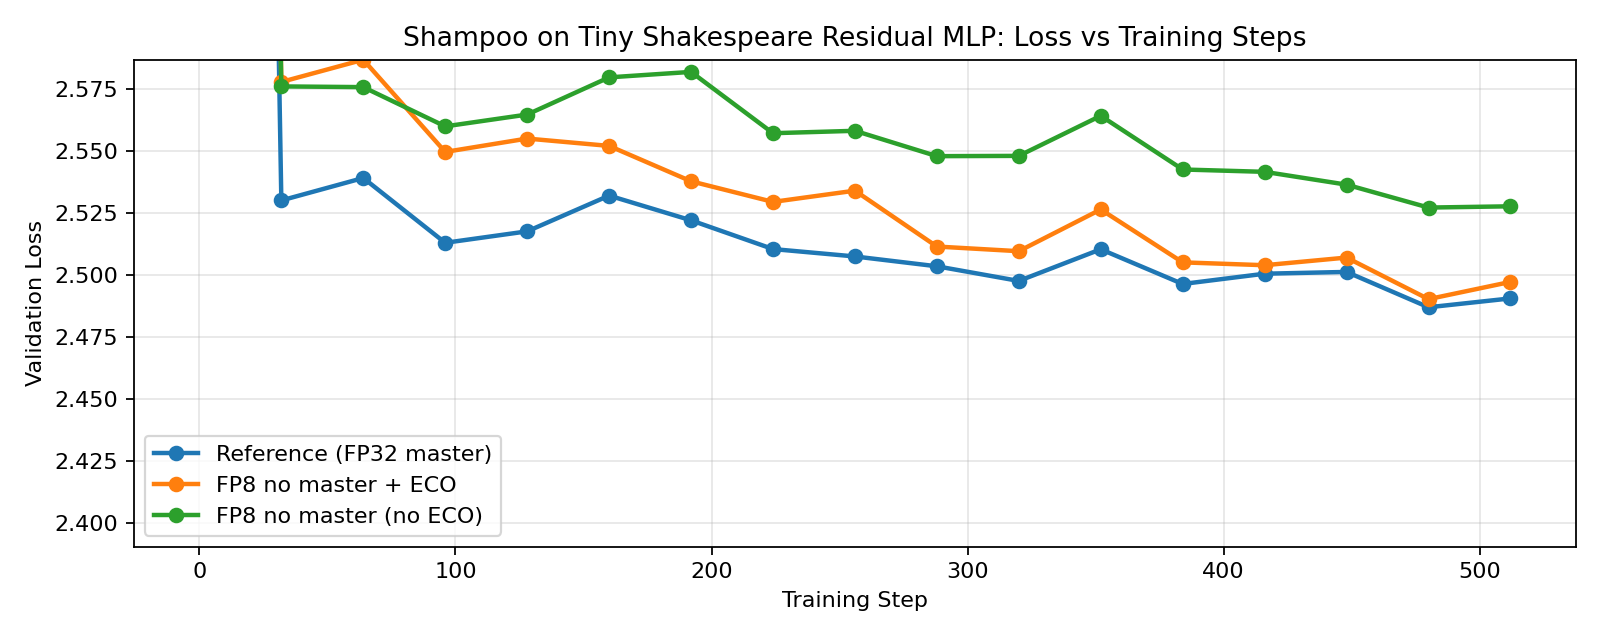
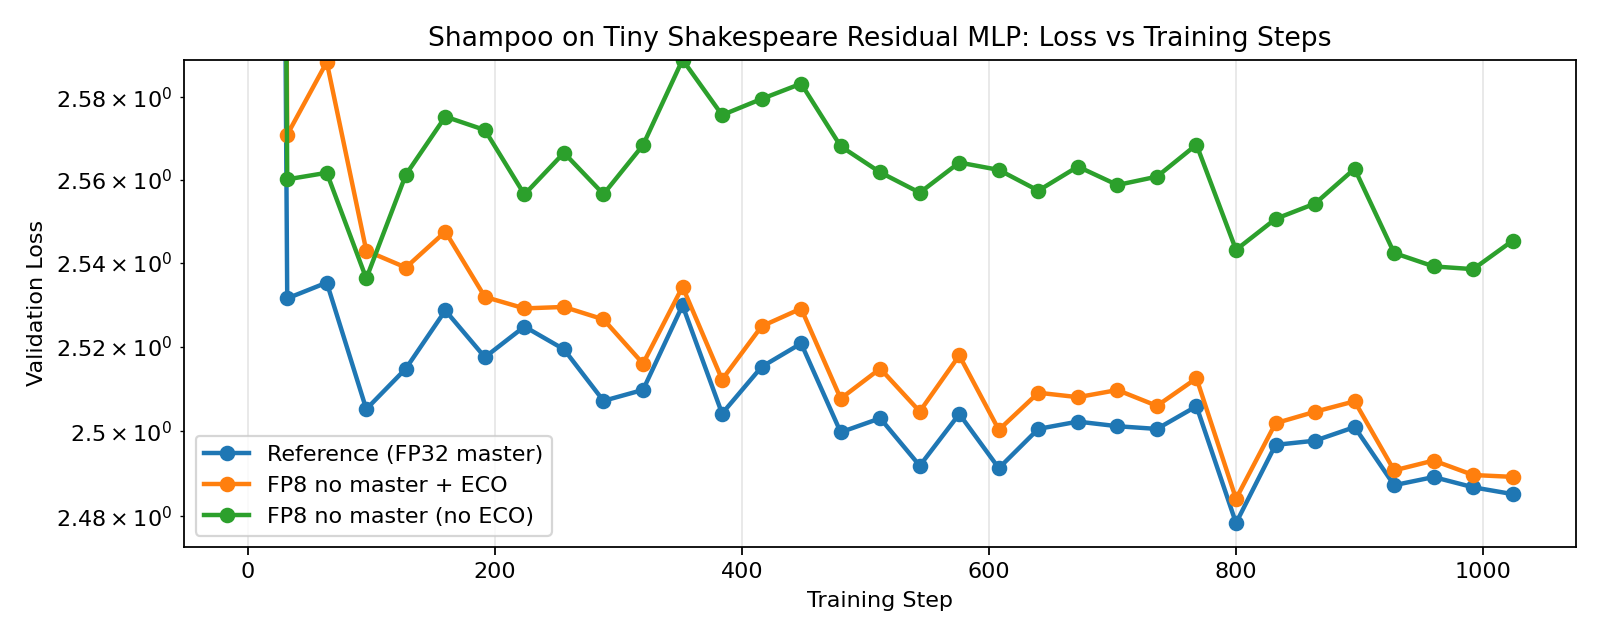
upload fixed eco code

diff --git a/content/ponder/eco/train_residual_mlp_shakespeare_eco.py b/content/ponder/eco/train_residual_mlp_shakespeare_eco.py
@@ -278,20 +278,6 @@ def _matrix_update_scale(p: Tensor) -> float:
     return math.sqrt(float(fan_out) / float(fan_in))
 
 
-def _stochastic_round_nonnegative(
-    x: Tensor,
-    *,
-    generator: Optional[torch.Generator] = None,
-) -> Tensor:
-    x_floor = torch.floor(x)
-    frac = torch.clamp(x - x_floor, min=0.0, max=1.0)
-    if generator is None:
-        rand = torch.rand_like(frac)
-    else:
-        rand = torch.rand(frac.shape, device=frac.device, dtype=frac.dtype, generator=generator)
-    return x_floor + (rand < frac).to(dtype=x.dtype)
-
-
 def _quantize_fp8_e4m3_no_scale(
     x: Tensor,
     *,
@@ -435,6 +421,7 @@ def quantize_ste(
 @dataclass
 class QuantForwardConfig:
     scale_mode: ScaleMode = "row"
+    enable_weight_quantization: bool = True
     weight_stochastic_rounding: bool = True
     activation_stochastic_rounding: bool = False
     activation_scale_mode: ScaleMode = "tensor"
@@ -442,6 +429,8 @@ class QuantForwardConfig:
 
 
 def quantize_weight_ste(x: Tensor, qcfg: QuantForwardConfig) -> Tensor:
+    if not qcfg.enable_weight_quantization:
+        return x
     return quantize_ste(
         x,
         stochastic_rounding=qcfg.weight_stochastic_rounding,
@@ -1502,7 +1491,7 @@ def plot_loss_curves(
 
     if all_steps:
         max_step = max(all_steps)
-        cutoff = 0.10 * float(max_step)
+        cutoff = 0.25 * float(max_step)
         for logs in all_logs.values():
             for rec in logs:
                 if float(rec["step"]) >= cutoff:
@@ -1512,15 +1501,16 @@ def plot_loss_curves(
     plt.ylabel("Validation Loss")
     # plt.yscale("log")
     if late_horizon_vals:
-        y_min, _ = plt.ylim()
+        y_min = min(late_horizon_vals)
         y_top = max(late_horizon_vals)
         if y_top > y_min:
-            plt.ylim(None, y_top)
+            plt.ylim(y_min - 0.05 * (y_top - y_min), y_top)
     optimizer_name_stylized = {
         "adamw": "AdamW",
         "muon": "Muon",
         "shampoo": "Shampoo",
     }[optimizer_name]
+    plt.yscale("log")
     plt.title(f"{optimizer_name_stylized} on Tiny Shakespeare Residual MLP: Loss vs Training Steps")
     plt.grid(True, alpha=0.3)
     plt.legend()
@@ -1537,12 +1527,14 @@ def build_model(
     n_layers: int,
     mlp_hidden: int,
     scale_mode: ScaleMode,
+    enable_weight_quantization: bool,
     lm_head_quantized: bool,
     device: torch.device,
     sr_generator: Optional[torch.Generator],
 ) -> ResidualMLPLM:
     qcfg = QuantForwardConfig(
         scale_mode=scale_mode,
+        enable_weight_quantization=enable_weight_quantization,
         weight_stochastic_rounding=True,
         activation_stochastic_rounding=False,
         activation_scale_mode="tensor",
@@ -1668,6 +1660,7 @@ def main() -> None:
         n_layers=args.n_layers,
         mlp_hidden=args.mlp_hidden,
         scale_mode=args.fp8_scale_mode,
+        enable_weight_quantization=True,
         lm_head_quantized=True,
         device=torch.device("cpu"),
         sr_generator=None,
@@ -1690,6 +1683,7 @@ def main() -> None:
         set_seed(args.seed)
         run_seed_offset = {"reference": 0, "eco_fp8_nomaster": 10_000, "fp8_nomaster_noeco": 20_000}[run_name]
         model_sr_gen = make_torch_generator(sr_seed_base + run_seed_offset + 1, device)
+        enable_weight_quantization = (run_name == "reference")
 
         model = build_model(
             vocab_size=dataset.vocab_size,
@@ -1698,6 +1692,7 @@ def main() -> None:
             n_layers=args.n_layers,
             mlp_hidden=args.mlp_hidden,
             scale_mode=args.fp8_scale_mode,
+            enable_weight_quantization=enable_weight_quantization,
             lm_head_quantized=True,
             device=device,
             sr_generator=model_sr_gen,
